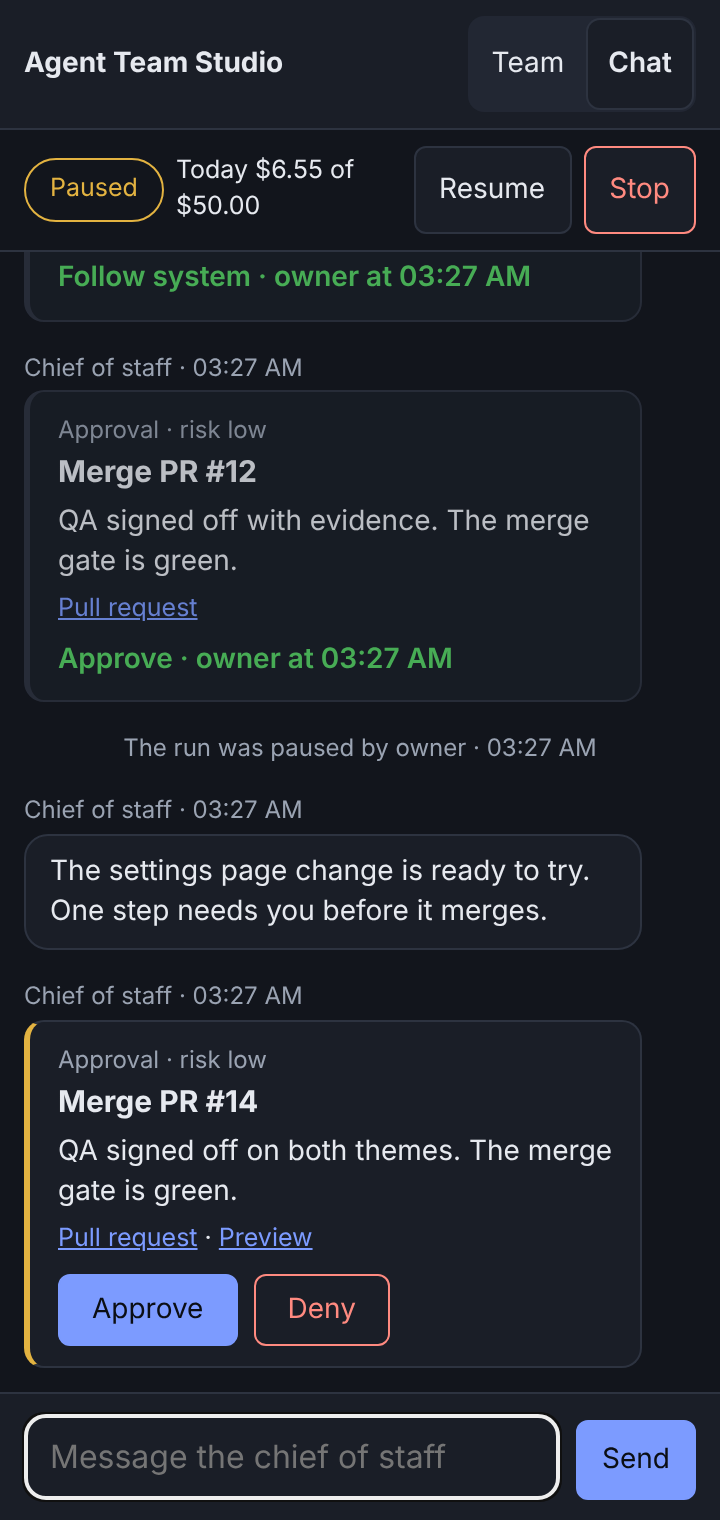
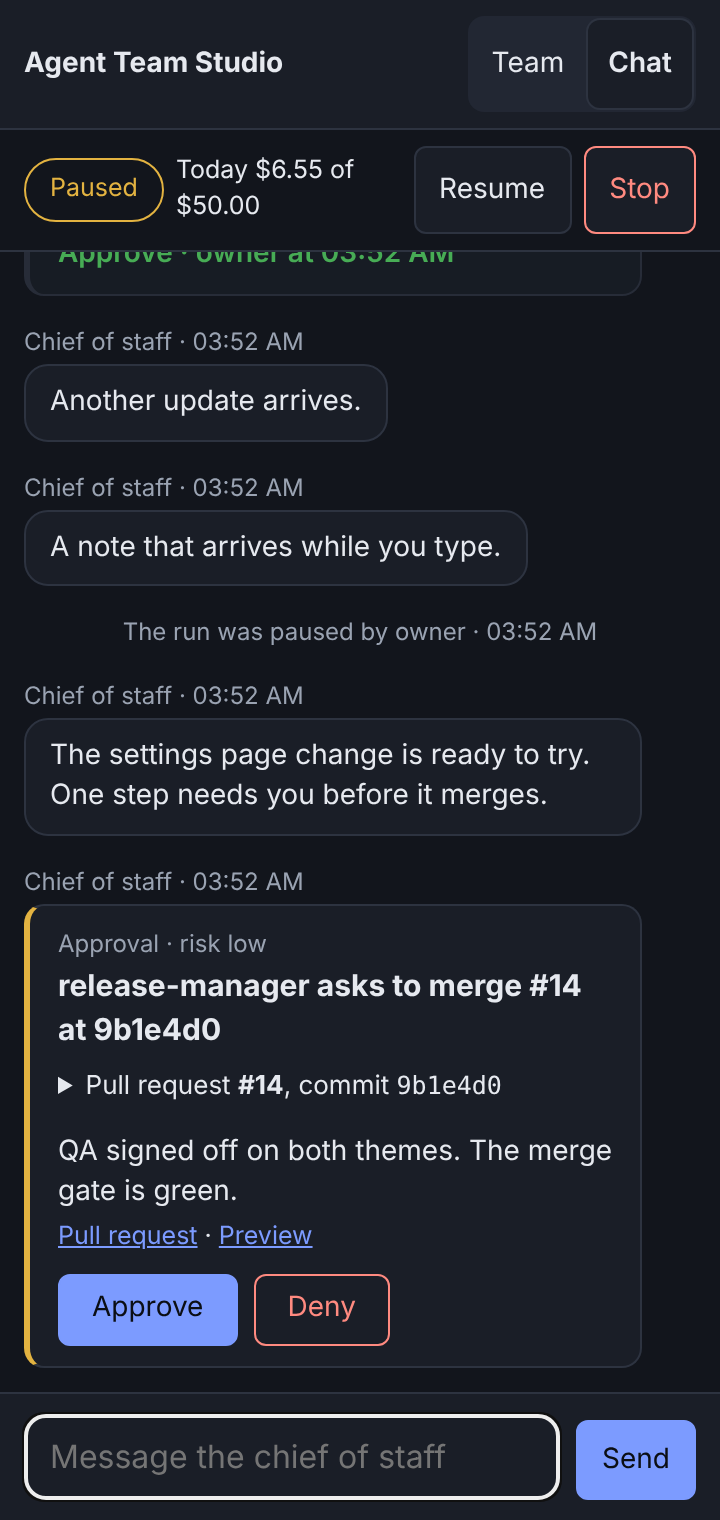
Studio chat: approval cards show the PR and head commit, the full sha on tap (D1) (#62)
* Studio: chat with the chief of staff (M3, issue #28)

A Chat page in the Studio: the owner's words verbatim with a client id,
replies as they arrive, decision and approval cards built from structured
data that answer with the card version (a stale card comes back refreshed),
today's cost against the cap, and pause, resume and stop for the run. The
Studio server proxies the control plane, so the token stays off the page.
Works at 360px; on small screens the team editor is read-only.

Tests: node tests for the proxy, and a Playwright test against a stand-in
control plane with a stubbed runner (new CI job), with screenshots at
desktop and 360px, light and dark.

Claude-Session: https://claude.ai/code/session_01CtT1rLNW9YJYwkYiXvhcVj

* Studio chat: follow the M3 design (ChatPage, card.updated, step-up)

Reads GET /chat as the architect fixed it in docs/product/m3-design.md
section 5: items, cards by id, run and cost in one page. Keeps the newest
card.updated per card, matches answers by card id, shows run and budget
events as timeline lines, and makes clientIds ULIDs. Approvals and stepUp
options ask for the admin token once; the Studio server trades it for a
step-up token via POST /auth/step-up and keeps that server-side for its
five minutes. The test control plane now answers in the same shape.

Claude-Session: https://claude.ai/code/session_01CtT1rLNW9YJYwkYiXvhcVj

* Studio: refuse requests not addressed to localhost; review fixes
[…]

diff --git a/apps/studio/public/chat.js b/apps/studio/public/chat.js
@@ -93,7 +93,7 @@ export function createChat({ root, onOpen } = {}) {
     connected: null, error: null, events: [], next: null, cards: new Map(), answers: new Map(), pending: [],
     notes: new Map(), // card id -> note shown above it (changed, step-up)
     run: null, cost: null, summary: null, busy: false, loaded: false, es: null, team: null,
-    runError: null, budget: null, plan: null, // GET /v1/team/budget and /v1/team/run/plan, read when the start dialog opens
+    runError: null, budget: null, plan: null, shaOpen: new Set(), // approval cards whose full sha is shown // GET /v1/team/budget and /v1/team/run/plan, read when the start dialog opens
     older: [], local: new Set(), // pages fetched with 'Show earlier'; events this page posted
 
   };
@@ -164,6 +164,20 @@ export function createChat({ root, onOpen } = {}) {
     return { answered: 'Answered', expired: 'Expired: nobody answered in time', superseded: 'No longer needed' }[card.state] ?? null;
   }
 
+  /**
+   * What a merge approval is bound to (m3-design D1): the PR and the head commit it may land, from the card's data.
+   * The short sha shows; a tap shows the full one, so the person can match it against the PR before approving.
+   */
+  function boundHtml(card) {
+    const pr = Number(card.data?.pr);
+    const sha = String(card.data?.headSha ?? '');
+    if (card.kind !== 'approval' || !Number.isInteger(pr) || pr < 1 || !/^[0-9a-f]{7,64}$/.test(sha)) return '';
+    return `<details class="bound" data-sha-card="${esc(card.id)}"${st.shaOpen.has(card.id) ? ' open' : ''}>
+      <summary>Pull request <strong>#${pr}</strong>, commit <code>${esc(sha.slice(0, 7))}</code></summary>
+      <p class="sha">Exactly commit <code>${esc(sha)}</code>. If the pull request moves on, this approval no longer counts and you are asked again.</p>
+    </details>`;
+  }
+
   function cardHtml(card, answered) {
     answered = answered || (card.state && card.state !== 'open' ? closedText(card) ?? human(card.state) : answered);
     const note = st.notes.get(card.id);
@@ -180,6 +194,7 @@ export function createChat({ root, onOpen } = {}) {
       ${note ? `<p class="card-note ${note.kind}" role="alert">${esc(note.text)}</p>` : ''}
       ${note?.kind === 'stepup' && !answered ? `<form class="stepup row" data-stepup="${esc(card.id)}" data-option="${esc(note.option)}"><input type="password" autocomplete="current-password" aria-label="Step-up secret" placeholder="Step-up secret" required><button type="submit" class="primary">Confirm</button></form>` : ''}
       <h3>${esc(card.title)}</h3>
+      ${boundHtml(card)}
       ${card.body ? `<div class="md">${md(card.body)}</div>` : ''}
       ${card.recommendation?.why && !answered ? `<p class="muted why">${esc(card.recommendation.why)}</p>` : ''}
       ${links ? `<p class="links">${links}</p>` : ''}
@@ -499,6 +514,11 @@ export function createChat({ root, onOpen } = {}) {
     f.querySelector('input').value = '';
     answer(f.dataset.stepup, f.dataset.option, secret);
   });
+  // Keeps a card's full sha shown across live redraws.
+  log.addEventListener('toggle', (e) => {
+    const d = e.target.closest?.('details[data-sha-card]');
+    if (d) d.open ? st.shaOpen.add(d.dataset.shaCard) : st.shaOpen.delete(d.dataset.shaCard);
+  }, true);
   log.addEventListener('click', (e) => {
     const b = e.target.closest('button');
     if (!b) return;

diff --git a/apps/studio/public/app.css b/apps/studio/public/app.css
@@ -198,6 +198,10 @@ a { color: var(--accent); }
 .card-msg h3 { font-size: 15px; margin: 2px 0 4px; }
 .card-meta { font-size: 12px; }
 .card-msg .why { font-size: 12.5px; margin: 4px 0; }
+.card-msg .bound { margin: 4px 0; font-size: 13px; }
+.card-msg .bound summary { cursor: pointer; min-height: 32px; display: list-item; padding: 4px 0; }
+.card-msg .bound code { font-size: 12.5px; }
+.card-msg .bound .sha { margin: 2px 0 0; font-size: 12.5px; overflow-wrap: anywhere; }
 .card-msg .links { font-size: 12.5px; margin: 4px 0; }
 .card-actions { display: flex; gap: 8px; flex-wrap: wrap; margin-top: 8px; }
 .card-actions button { min-height: 36px; padding: 6px 16px; }

diff --git a/CHANGELOG.md b/CHANGELOG.md
@@ -13,6 +13,7 @@
   - The page and issuer seams are in `/mnt/project-files/plans/m4-sign-in-pages-seams.md` until the issuer lands.
   - A browser test runs it against a stub issuer and a stub GitHub, with Chromium's virtual passkey, at desktop and 360px.
 - A live update no longer empties a step-up secret while it is being typed in the chat (#57).
+- A merge approval card shows what it is bound to (M3 design D1): the pull request and the short commit under its title. Tapping it shows the full commit, and it stays open across live updates.
 
 - **Start a run from the Studio's Chat page** (milestone M3, issue #28). With no run going, the header offers **Start a run…**. The dialog says what will run: the team as last published (the commit, not the unsaved canvas), how many roles, and which one reports to you. **Start** stays off until a daily cap is set; setting or raising the cap asks for the step-up secret, lowering it never does. The Studio's server builds the run request from the repository: the commit SHA, the origin URL with any credentials stripped, a summary, and for each role its manager, the paths it writes, its model and its rendered brief (at most 20 KB). It refuses with "publish first" when the team's files have changes nobody published, and with "push first" when the published commit is not on the branch's upstream (publish commits but does not push, and the team's sessions check out from the remote); the run's `repo.ref` is that upstream branch. The control plane's 409s are shown as it words them, for example a run that is already going or today's cap being spent.
 - Cards follow their state from the control plane: answered, expired and superseded cards lose their buttons and say why, and budget cards ("Today's budget is spent") appear in the chat with Resume tomorrow and Add half again. Amounts use each currency's own minor unit (cents, yen, fils).
